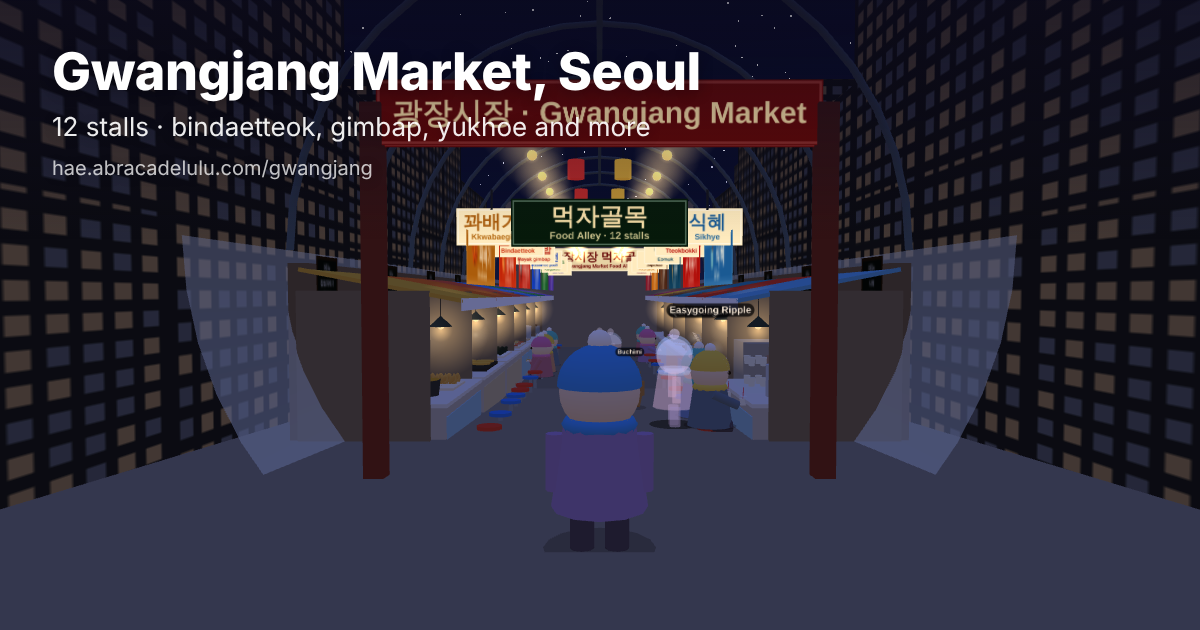
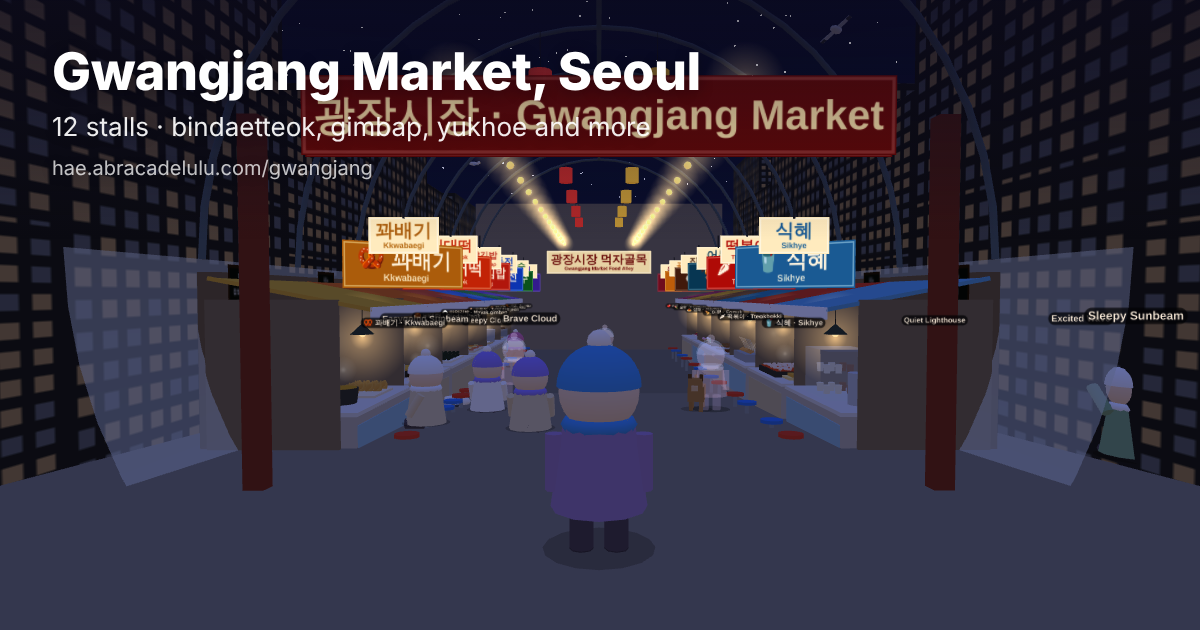
Gwangjang: widen the food alley (4.2m -> 6.8m) with stalls, stools, roof and gate derived from one width constant
Claude-Session: https://claude.ai/code/session_01Xya5pZ6iNnSspWDnsyREZz

diff --git a/client/src/seoul-scenery.ts b/client/src/seoul-scenery.ts
@@ -1,5 +1,5 @@
 import * as THREE from 'three';
-import { CARTS, MARKET, MARKET_STALLS, MYEONGDONG, STAGE } from './beach-extras';
+import { CARTS, MARKET, MARKET_STALLS, STALL_X, STOOL_X, MYEONGDONG, STAGE } from './beach-extras';
 import { textSprite } from './character';
 
 // 서울 지하철역 장소들: 광장시장(종로5가), 명동, 홍대입구
@@ -216,24 +216,24 @@ function counterFood(food: number, s: THREE.Group, side: number, GLOW: THREE.Tex
 function market(scene: THREE.Scene, GLOW: THREE.Texture) {
   const g = new THREE.Group(); scene.add(g);
   farGround(g, 0x6f6a62);
-  const L = MARKET.front - MARKET.back, zc = (MARKET.front + MARKET.back) / 2;
+  const L = MARKET.front - MARKET.back, zc = (MARKET.front + MARKET.back) / 2, ROOF_R = STALL_X + 1.85;
   // 바닥: 젖은 듯한 타일 줄 + 가운데 배수로
-  for (let z = MARKET.back; z < MARKET.front; z += 1.0) { const l = new THREE.Mesh(new THREE.PlaneGeometry(4.4, 0.03), M(0x6a655d)); l.rotation.x = -Math.PI / 2; l.position.set(0, 0.015, z); g.add(l); }
+  for (let z = MARKET.back; z < MARKET.front; z += 1.0) { const l = new THREE.Mesh(new THREE.PlaneGeometry(MARKET.half * 2 + 0.2, 0.03), M(0x6a655d)); l.rotation.x = -Math.PI / 2; l.position.set(0, 0.015, z); g.add(l); }
   const drain = new THREE.Mesh(new THREE.PlaneGeometry(0.3, L), M(0x3e3b37)); drain.rotation.x = -Math.PI / 2; drain.position.set(0, 0.018, zc); g.add(drain);
   for (let z = MARKET.back; z < MARKET.front; z += 0.25) { const gr = new THREE.Mesh(new THREE.PlaneGeometry(0.3, 0.04), M(0x5c5852)); gr.rotation.x = -Math.PI / 2; gr.position.set(0, 0.02, z); g.add(gr); }
   // 아치 지붕과 철골
-  const roof = new THREE.Mesh(new THREE.CylinderGeometry(4.6, 4.6, L, 24, 1, true, -Math.PI / 2, Math.PI),
+  const roof = new THREE.Mesh(new THREE.CylinderGeometry(ROOF_R, ROOF_R, L, 28, 1, true, -Math.PI / 2, Math.PI),
     M(0xdfe8e0, { transparent: true, opacity: 0.55, side: THREE.DoubleSide }));
   roof.rotation.x = Math.PI / 2; roof.position.set(0, 3.2, zc); g.add(roof);
   const steel = M(0x51606a);
   for (let z = MARKET.back; z <= MARKET.front; z += 3.2) {
-    const rib = new THREE.Mesh(new THREE.TorusGeometry(4.6, 0.06, 4, 20, Math.PI), steel); rib.position.set(0, 3.2, z); g.add(rib);
+    const rib = new THREE.Mesh(new THREE.TorusGeometry(ROOF_R, 0.06, 4, 24, Math.PI), steel); rib.position.set(0, 3.2, z); g.add(rib);
   }
-  const ridge = box(0.12, 0.12, L, steel, 0, 7.8, zc, g); void ridge;
+  const ridge = box(0.12, 0.12, L, steel, 0, 3.2 + ROOF_R, zc, g); void ridge;
   // 골목 끝 벽 + 현수막, 바깥 건물
-  box(9, 7, 0.4, M(0x8a7e70), 0, 3.5, MARKET.back - 0.2, g);
+  box(ROOF_R * 2, 7, 0.4, M(0x8a7e70), 0, 3.5, MARKET.back - 0.2, g);
   const endBanner = sign2('광장시장 먹자골목', 'Gwangjang Market Food Alley', '#f4ead2', '#a8302a', 5, 1.1); endBanner.position.set(0, 4.2, MARKET.back + 0.02); g.add(endBanner);
-  for (const sx of [-1, 1]) for (let z = MARKET.back; z < MARKET.front; z += 6) building(6, 7 + ((z * 7) & 3), 6, pick([0x9a8f82, 0x8b8c8f, 0xa59585], z), sx * 8.4, z + 3, g);
+  for (const sx of [-1, 1]) for (let z = MARKET.back; z < MARKET.front; z += 6) building(6, 7 + ((z * 7) & 3), 6, pick([0x9a8f82, 0x8b8c8f, 0xa59585], z), sx * (STALL_X + 5.65), z + 3, g);
   for (let x = -40; x <= 40; x += 9) if (Math.abs(x) > 12) building(8, 8 + (x & 5), 8, pick([0x9d958a, 0x878a90, 0xb3a796], x), x, MARKET.back - 14, g);
   // 노점
   const steam: ReturnType<typeof steamPuffs> = [];
@@ -244,7 +244,7 @@ function market(scene: THREE.Scene, GLOW: THREE.Texture) {
   const stoolM = [M(0xd8392b), M(0x2f6fd0)];
   MARKET_STALLS.forEach((sl, i) => {
     const side = sl.side, z = sl.z;
-    const s = new THREE.Group(); s.position.set(side * 2.75, 0, z); g.add(s);
+    const s = new THREE.Group(); s.position.set(side * STALL_X, 0, z); g.add(s);
     // 카운터 (앞면 타일) + 뒤 벽 + 선반
     box(1.0, 0.9, 2.9, M(0xb9b0a2), 0, 0.45, 0, s);
     box(0.02, 0.6, 2.8, M(i % 2 ? 0x8fb5c4 : 0xc4b28f), -side * 0.51, 0.45, 0, s);
@@ -266,7 +266,7 @@ function market(scene: THREE.Scene, GLOW: THREE.Texture) {
     const sg = sign2(`${sl.emoji} ${sl.ko}`, sl.en, hex(sl.aw), '#fffaf0', 2.2, 0.75);
     sg.position.set(-side * 0.85, 3.15, 0); sg.rotation.y = -side * Math.PI / 4; s.add(sg);
     // 어느 방향에서 봐도 읽히는 이름표 (카메라를 늘 바라봄)
-    const tag = textSprite(`${sl.emoji} ${sl.ko} · ${sl.en}`, 0.5); tag.position.set(side * 1.95, 2.2, z); g.add(tag); tags.push(tag);
+    const tag = textSprite(`${sl.emoji} ${sl.ko} · ${sl.en}`, 0.5); tag.position.set(side * (MARKET.half - 0.15), 2.2, z); g.add(tag); tags.push(tag);
     // 가게를 탭하면 살 수 있게: 화면에 보이는 가게 물체 자체로 판정
     s.userData.food = sl.food; tag.userData.food = sl.food; hits.push(s, tag);
     // 골목 쪽으로 튀어나온 작은 세로 간판 (입구에서 줄지어 보임)
@@ -281,30 +281,30 @@ function market(scene: THREE.Scene, GLOW: THREE.Texture) {
     box(0.01, 0.4, 0.01, M(0x222222), -side * 0.1, 2.38, 0, s);
     const bulb = new THREE.Mesh(new THREE.SphereGeometry(0.06, 8, 6), new THREE.MeshBasicMaterial({ color: 0xffe0a0 })); bulb.position.set(-side * 0.1, 2.02, 0); s.add(bulb);
     const glow = new THREE.Sprite(new THREE.SpriteMaterial({ map: GLOW, color: 0xffc870, transparent: true, depthWrite: false, blending: THREE.AdditiveBlending, opacity: 0.3 }));
-    glow.scale.setScalar(1.6); glow.position.set(side * 2.65, 1.95, z); g.add(glow); lamps.push(glow);
+    glow.scale.setScalar(1.6); glow.position.set(side * (STALL_X - 0.1), 1.95, z); g.add(glow); lamps.push(glow);
     // 주인
     const v = figure(pick([0xf3efe6, 0x9fb6d1, 0xe7c7a0, 0xd8a9b8], i), pick([0xf4f1ea, 0xd3423a, 0x3c5a7a, 0x5a8a5a], i + 1), 0xe9e4d8);
     v.position.set(side * 0.85, 0, 0.3); v.rotation.y = side * Math.PI / 2; s.add(v); vendors.push(v);
     // 음식
-    counterFood(sl.food, s, side, GLOW, steam, g, side * 2.75, z);
+    counterFood(sl.food, s, side, GLOW, steam, g, side * STALL_X, z);
     if (sl.food === 1) { flip = cyl(0.2, 0.2, 0.04, M(0xd9a441), 0.05 * side + 0.2, 1.03, -0.85, s, 16); }
     // 의자 (beach-extras 좌석과 같은 자리)
     for (const dz of i === 0 ? [-1.2, -0.4, 0.4, 1.2] : [-0.6, 0.6]) {
-      cyl(0.2, 0.2, 0.06, stoolM[(i + (dz > 0 ? 1 : 0)) % 2], side * 1.75, 0.44, z + dz, g, 12);
-      cyl(0.04, 0.05, 0.42, M(0x8a8f94), side * 1.75, 0.21, z + dz, g, 6);
+      cyl(0.2, 0.2, 0.06, stoolM[(i + (dz > 0 ? 1 : 0)) % 2], side * STOOL_X, 0.44, z + dz, g, 12);
+      cyl(0.04, 0.05, 0.42, M(0x8a8f94), side * STOOL_X, 0.21, z + dz, g, 6);
     }
   });
   // 골목 위 전구 줄과 붉은 초롱
   const pts: [number, number, number][] = [];
-  for (let z = MARKET.back + 1; z < MARKET.front; z += 1.6) { pts.push([-0.9, 4.4, z]); pts.push([0.9, 4.4, z]); }
+  for (let z = MARKET.back + 1; z < MARKET.front; z += 1.6) { pts.push([-1.6, 5.0, z]); pts.push([1.6, 5.0, z]); }
   const lights = bulbs(g, GLOW, pts);
-  for (let z = MARKET.back + 2; z < MARKET.front; z += 4) for (const x of [-0.5, 0.5]) {
-    const ln = cyl(0.18, 0.18, 0.4, M(x < 0 ? 0xd8392b : 0xf0c040, { emissive: x < 0 ? 0x5a1010 : 0x5a4010 }), x, 5.2, z, g, 12);
-    box(0.01, 0.6, 0.01, M(0x222222), x, 5.7, z, g); void ln;
+  for (let z = MARKET.back + 2; z < MARKET.front; z += 4) for (const x of [-0.9, 0.9]) {
+    const ln = cyl(0.18, 0.18, 0.4, M(x < 0 ? 0xd8392b : 0xf0c040, { emissive: x < 0 ? 0x5a1010 : 0x5a4010 }), x, 5.9, z, g, 12);
+    box(0.01, 0.6, 0.01, M(0x222222), x, 6.4, z, g); void ln;
   }
   // 입구: 붉은 기둥과 큰 간판, 안쪽에 먹자골목 현수막
-  for (const sx of [-1, 1]) box(0.22, 4.6, 0.22, M(0x7a2b22), sx * 2.45, 2.3, MARKET.front + 0.1, g);
-  const gate = sign('광장시장 · Gwangjang Market', '#a8302a', '#fff3d6', 4.8, 0.7); gate.position.set(0, 4.5, MARKET.front + 0.15); g.add(gate);
+  for (const sx of [-1, 1]) box(0.22, 4.6, 0.22, M(0x7a2b22), sx * (MARKET.half + 0.35), 2.3, MARKET.front + 0.1, g);
+  const gate = sign('광장시장 · Gwangjang Market', '#a8302a', '#fff3d6', 6.4, 0.85); gate.position.set(0, 4.6, MARKET.front + 0.15); g.add(gate);
   const back = gate.clone(); back.rotation.y = Math.PI; back.position.z = MARKET.front + 0.05; g.add(back);
   const inner = sign2('먹자골목', 'Food Alley · 12 stalls', '#2f5a3a', '#fff3d6', 2.0, 0.55); inner.position.set(0, 5.6, MARKET.front - 2.5); g.add(inner);
   const innerB = inner.clone(); innerB.rotation.y = Math.PI; innerB.position.z = MARKET.front - 2.51; g.add(innerB);

diff --git a/client/src/main.ts b/client/src/main.ts
@@ -8,7 +8,7 @@ import { initAnalytics, track } from './analytics';
 import { createLanterns } from './lanterns';
 import { createBeachLife } from './beach-life';
 import { createTraces } from './traces';
-import { benchAt, benchSeats, canStand, createBonfire, createFootprints, createPier, floorY, nightness, BONFIRE, createStones, onPier, surfaceAt, createJetties, hasPhotoSpots, PHOTO_SPOTS, setTerrain, has, RAMEN_MACHINE, PORTAL, camOpen, MARKET_STALLS, TTEOK_CART, STAGE } from './beach-extras';
+import { benchAt, benchSeats, canStand, createBonfire, createFootprints, createPier, floorY, nightness, BONFIRE, createStones, onPier, surfaceAt, createJetties, hasPhotoSpots, PHOTO_SPOTS, setTerrain, has, RAMEN_MACHINE, PORTAL, camOpen, MARKET_STALLS, MARKET, STALL_X, TTEOK_CART, STAGE } from './beach-extras';
 import { takePhoto } from './photo';
 import { createCastles } from './castles';
 import { createShells, PER_DAY, SHELLS } from './shells';
@@ -618,7 +618,7 @@ function loop(t: number) {
   if (place.id === 'gwangjang') {
     const p = me.root.position, inAlley = p.z < 10 ? 1 : clamp(1 - (p.z - 10) / 8, 0.2, 1);
     let siz = 0;
-    for (const sl of MARKET_STALLS) if (sl.food === 1 || sl.food === 2 || sl.food === 4 || sl.food === 9) siz = Math.max(siz, clamp(1.2 - Math.hypot(p.x - sl.side * 2.75, p.z - sl.z) / 4, 0, 1));
+    for (const sl of MARKET_STALLS) if (sl.food === 1 || sl.food === 2 || sl.food === 4 || sl.food === 9) siz = Math.max(siz, clamp(1.2 - Math.hypot(p.x - sl.side * STALL_X, p.z - sl.z) / 4, 0, 1));
     amb.setMarket(inAlley, siz);
   } else amb.setMarket(0, 0);
   prints.update(dt);
@@ -1554,7 +1554,7 @@ $('ramenBtn').onclick = () => {
 // 다른 가게에서 또 사면 들고 있던 걸 바꿔 듦. 광장시장 12가지를 다 먹으면 도장 완성.
 interface Shop { food: number; x: number; z: number; fx: number; r: number; emoji: string; ko: string; en: string; taste: [string, string]; wait: number }
 const SHOPS: Record<string, Shop[]> = {
-  gwangjang: MARKET_STALLS.map(sl => ({ ...sl, x: sl.side * 1.55, z: sl.z, fx: sl.side * 2.75, r: 1.25 })),
+  gwangjang: MARKET_STALLS.map(sl => ({ ...sl, x: sl.side * (MARKET.half - 0.55), z: sl.z, fx: sl.side * STALL_X, r: 1.25 })),
   myeongdong: [{ food: FOOD.tteokbokki, x: TTEOK_CART.x + 1.4, z: TTEOK_CART.z, fx: TTEOK_CART.x, r: 1.6, emoji: '🌶', ko: '떡볶이', en: 'Tteokbokki', taste: ['매콤달콤!', 'Sweet and spicy!'], wait: 2200 }],
 };
 const MARKET_FOODS = MARKET_STALLS.length;

diff --git a/client/src/beach-extras.ts b/client/src/beach-extras.ts
@@ -43,7 +43,9 @@ export const PORTAL = { x: 8.5, z: 14 };
 export const PALACE = { gateZ: -12, x: 0 };
 /** 한강 편의점과 라면 기계 */
 /** 광장시장: 지붕 덮인 먹자골목 (가운데 통로 |x|<2.1), 빈대떡 가게는 왼쪽 */
-export const MARKET = { half: 2.1, back: -16, front: 9 };
+export const MARKET = { half: 3.4, back: -16, front: 9 };
+/** 노점 카운터 중심 x, 의자 x (골목 폭에 맞춰 계산) */
+export const STALL_X = MARKET.half + 0.65, STOOL_X = MARKET.half - 0.35;
 export const BINDAE_STALL = { x: -2.7, z: 2 };
 /** 광장시장 노점 12곳. z = 2 + k×3.2, side -1은 왼쪽(-x), 1은 오른쪽.
  *  food는 손에 드는 음식 번호 (character.ts FOOD와 같음) */
@@ -97,7 +99,7 @@ export function benchSeats() {
   // 36~61: 광장시장 노점 앞 동그란 의자 (가게를 바라봄). 빈대떡 가게 4개, 나머지 가게 2개씩
   for (const [i, sl] of MARKET_STALLS.entries()) {
     for (const dz of i === 0 ? [-1.2, -0.4, 0.4, 1.2] : [-0.6, 0.6]) {
-      const x = sl.side * 1.75, z = sl.z + dz;
+      const x = sl.side * STOOL_X, z = sl.z + dz;
       out.push({ x, z, ry: -sl.side * Math.PI / 2, y: groundY(z) + 0.46, bench: true, kind: 'stool', sx: x - sl.side * 0.7, sz: z, places: ['gwangjang'] });
     }
   }
@@ -152,8 +154,8 @@ export function camOpen(x: number, y: number, z: number) {
   if (y > 4.5) return true;
   switch (terrain) {
     case 'gwangjang':
-      if (z < MARKET.front + 0.3) return z > MARKET.back + 0.4 && Math.abs(x) < 1.95;
-      return !(Math.abs(x) > 5.2 && z < 14.3);
+      if (z < MARKET.front + 0.3) return z > MARKET.back + 0.4 && Math.abs(x) < MARKET.half - 0.15;
+      return !(Math.abs(x) > STALL_X + 2.45 && z < 14.3);
     case 'myeongdong':
       return z > MYEONGDONG.front - 2.8 || Math.abs(x) < MYEONGDONG.half + 0.3;
     case 'hongdae':

diff --git a/server/src/dog.ts b/server/src/dog.ts
@@ -13,7 +13,7 @@ const AREA: Record<string, { minX: number; maxX: number; minZ: number; maxZ: num
   default: { minX: -16, maxX: 14, minZ: -1.4, maxZ: 6 },
   hangang: { minX: -6, maxX: 14, minZ: 0, maxZ: 9 },
   gyeongbokgung: { minX: -14, maxX: 14, minZ: -6, maxZ: 10 },
-  gwangjang: { minX: -1.5, maxX: 1.5, minZ: -8, maxZ: 9 },
+  gwangjang: { minX: -2.6, maxX: 2.6, minZ: -8, maxZ: 9 },
   myeongdong: { minX: -6, maxX: 6, minZ: -10, maxZ: 10 },
   hongdae: { minX: -12, maxX: 12, minZ: -2, maxZ: 10 },
 };
